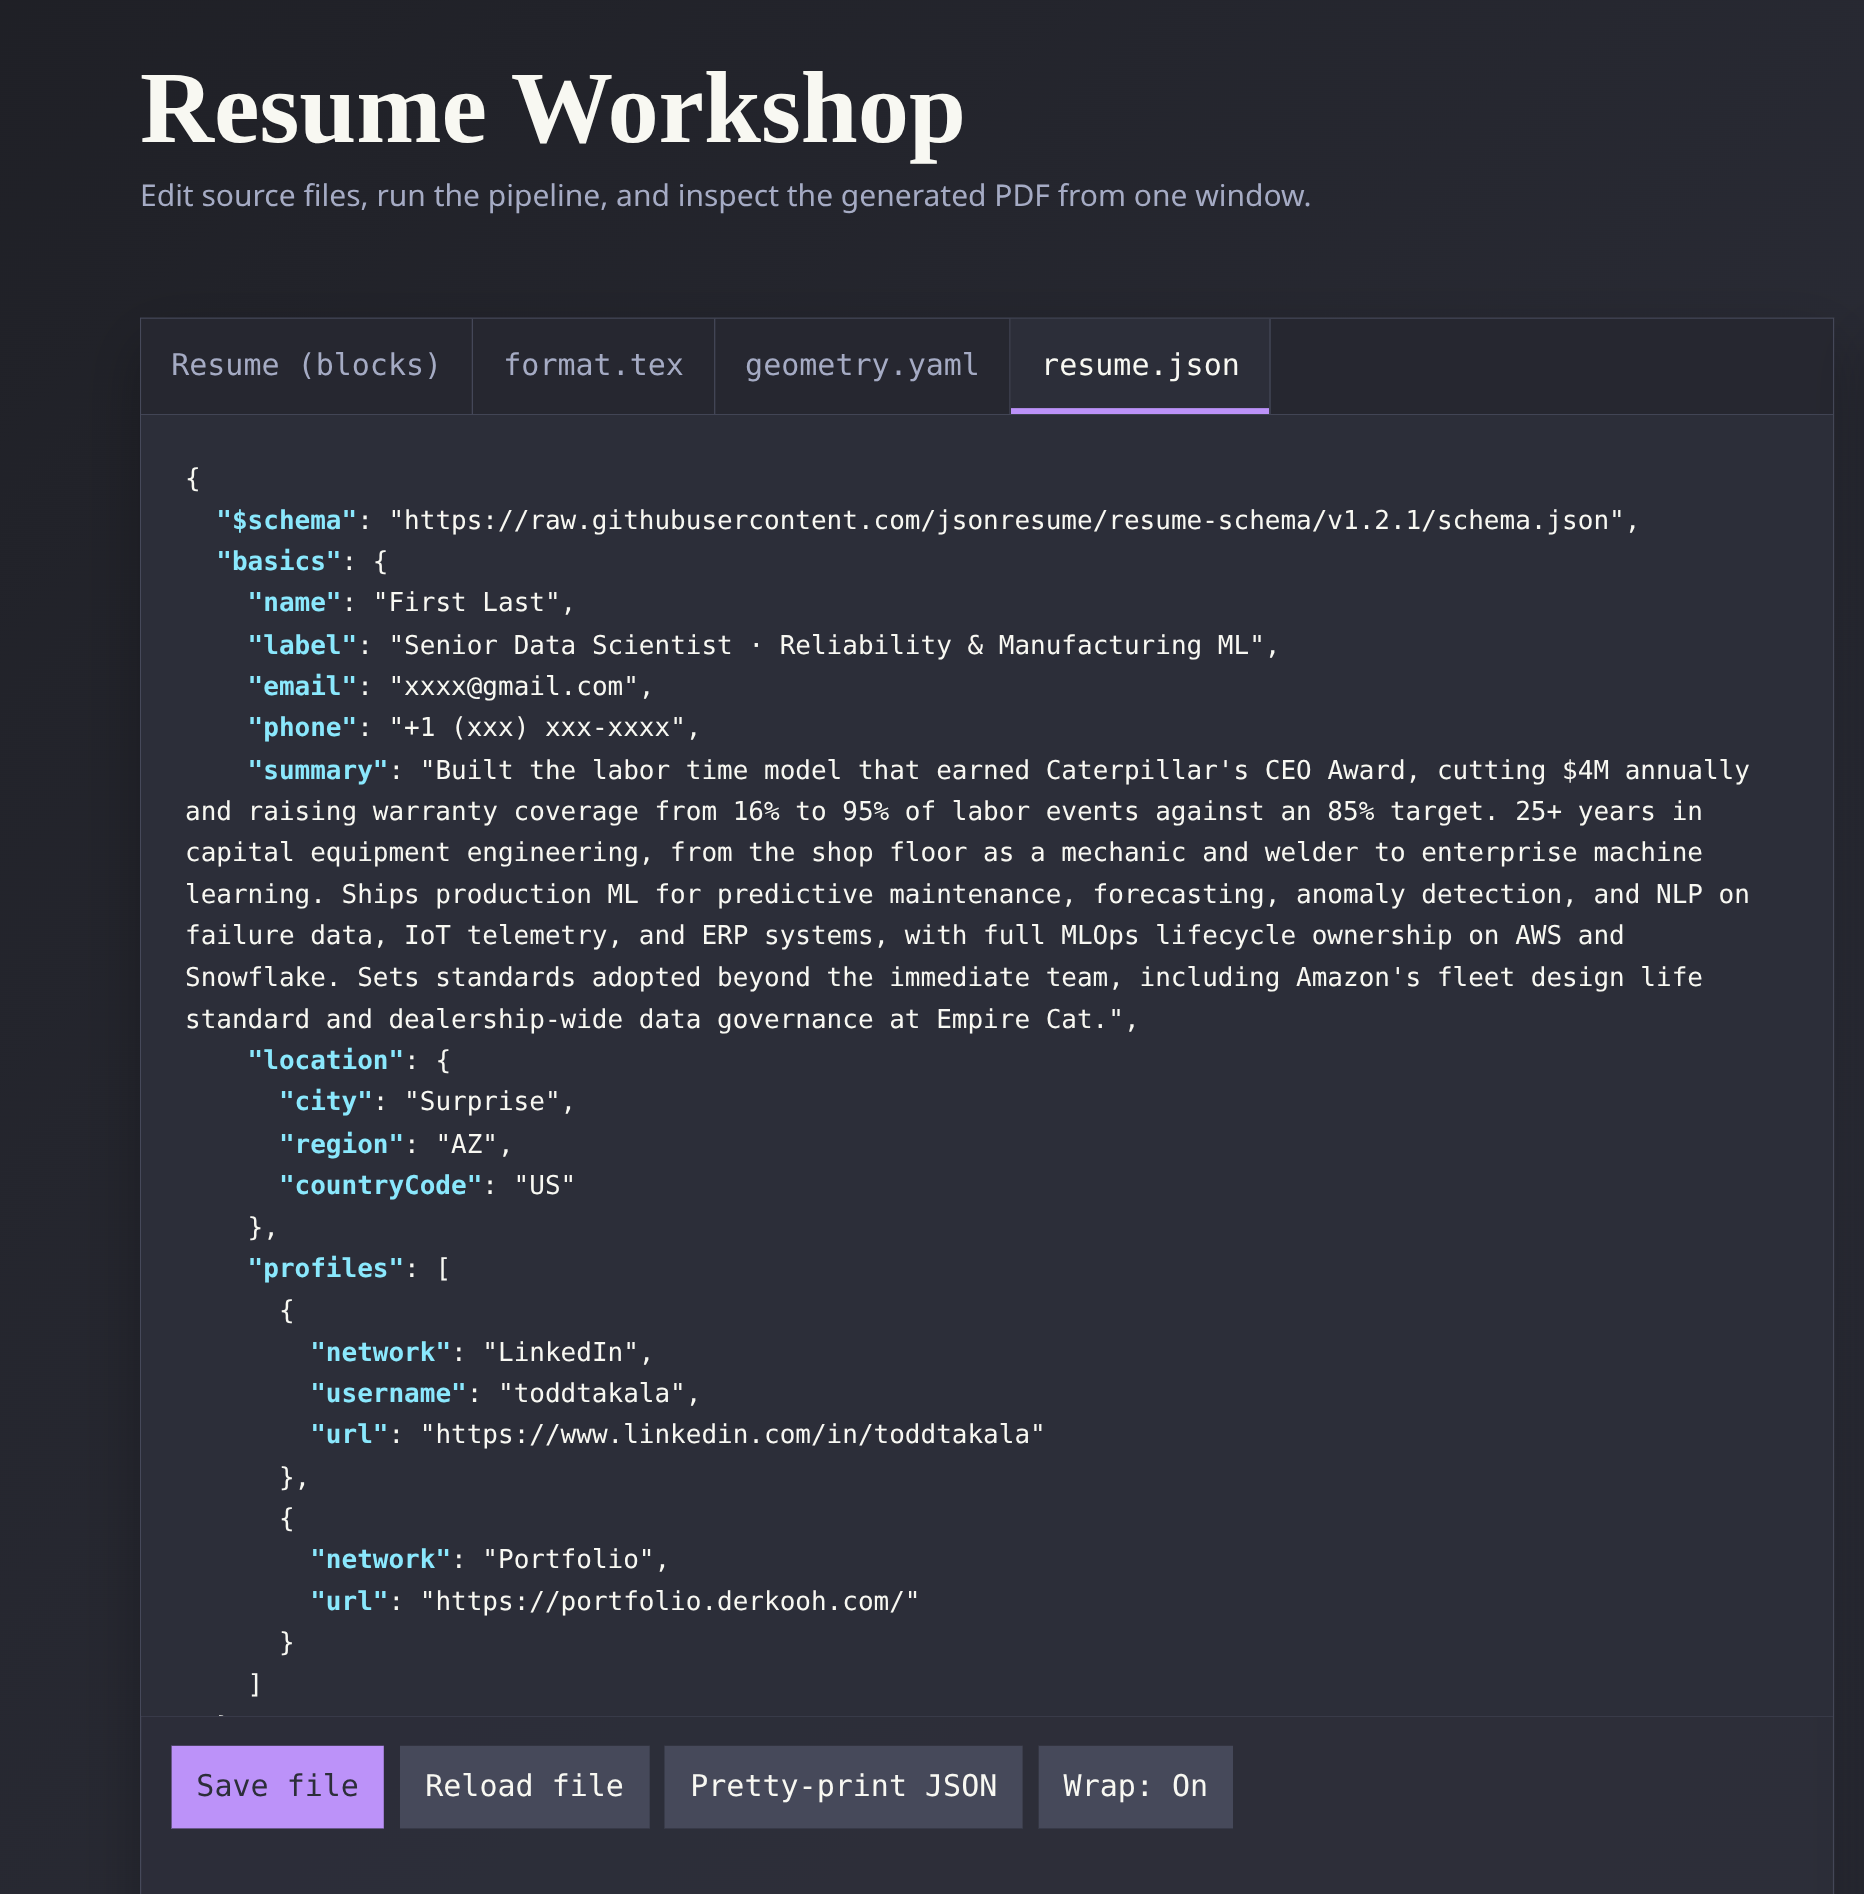
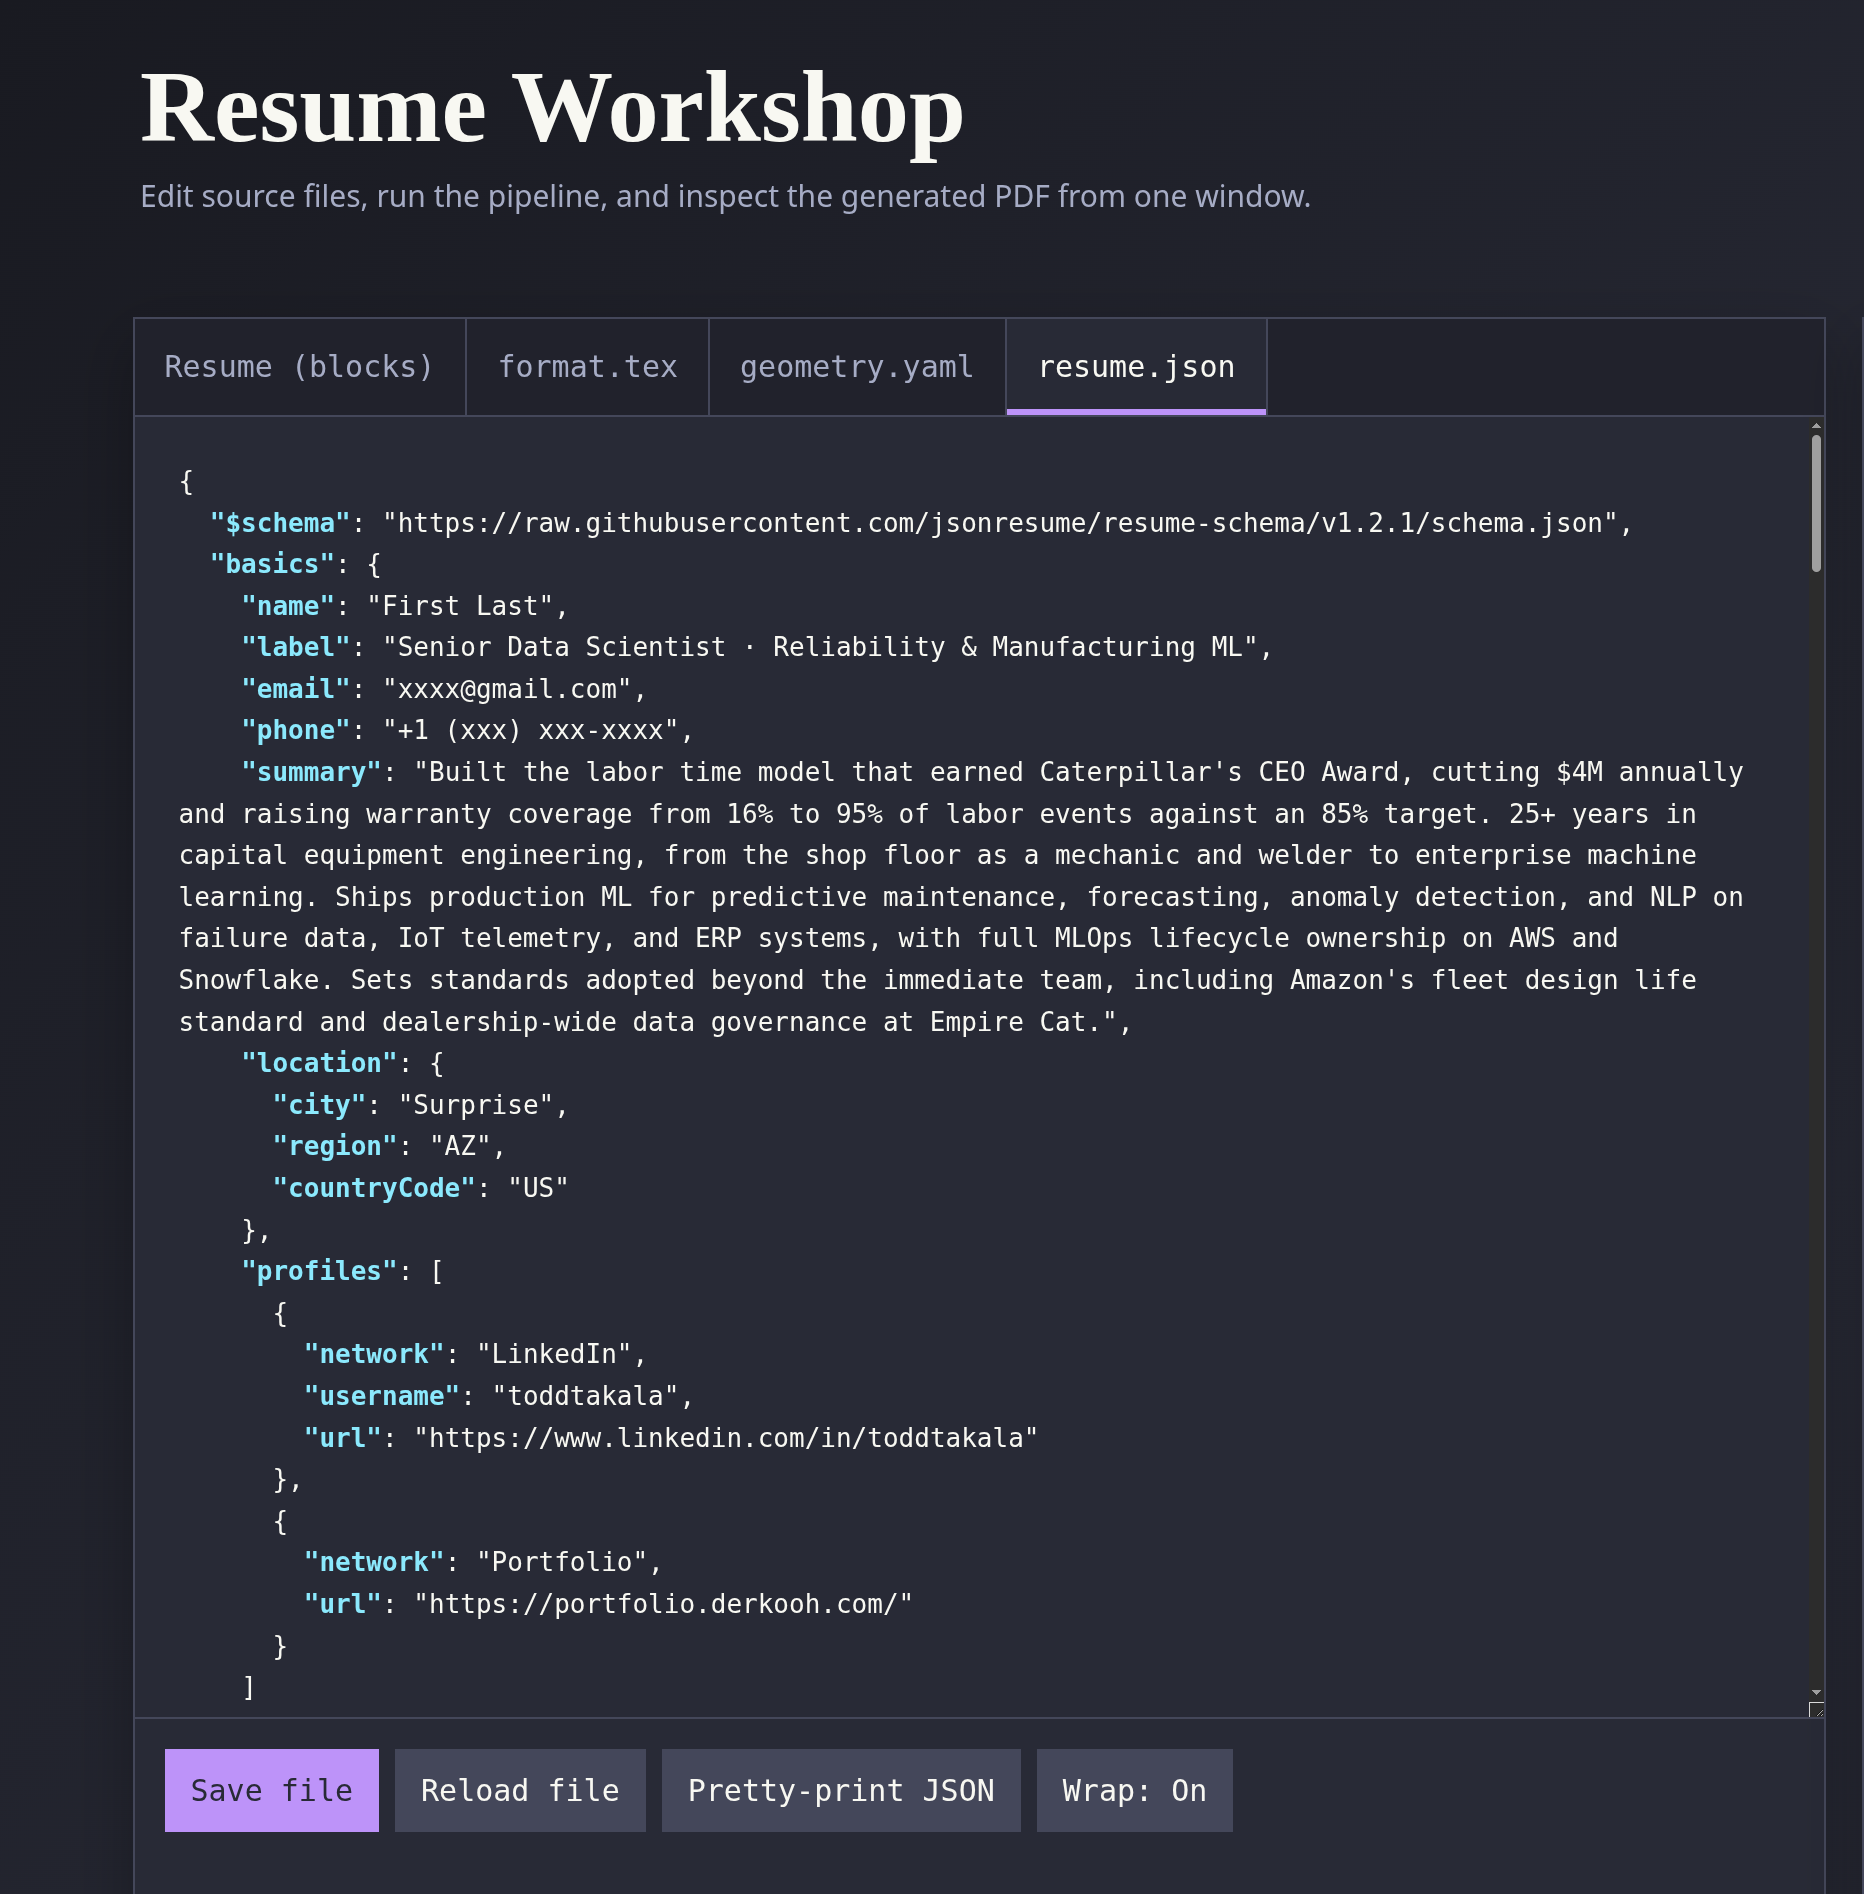
Retake the editor screenshots and add a full-window view
Retake the five README screenshots with the current editor and resume,
at the same size and framing as before. Add editor-window.png, a
full-window view showing the header's Download rxresume.json and
Open PDF buttons, the Make targets panel, and the PDF preview, since
the existing shots are cropped to the editor column.

- docs/screenshots: editor-blocks, editor-blocks-sections,
  editor-blocks-experience, editor-resume-json, and editor-format
  retaken; new editor-window.png
- README: show editor-window.png in the Local editor section, under
  the paragraph describing the header buttons

diff --git a/README.md b/README.md
@@ -212,6 +212,8 @@ first. **Open PDF** opens the generated PDF in your system's PDF viewer.
 where to save a copy of the [Reactive Resume export](#reactive-resume-export)
 (unsaved edits aren't included).
 
+![Editor window: header buttons, Make targets, and the PDF preview](docs/screenshots/editor-window.png)
+
 ### Block editor
 
 The editor opens on the **Resume (blocks)** tab, a drag-and-drop editor for
